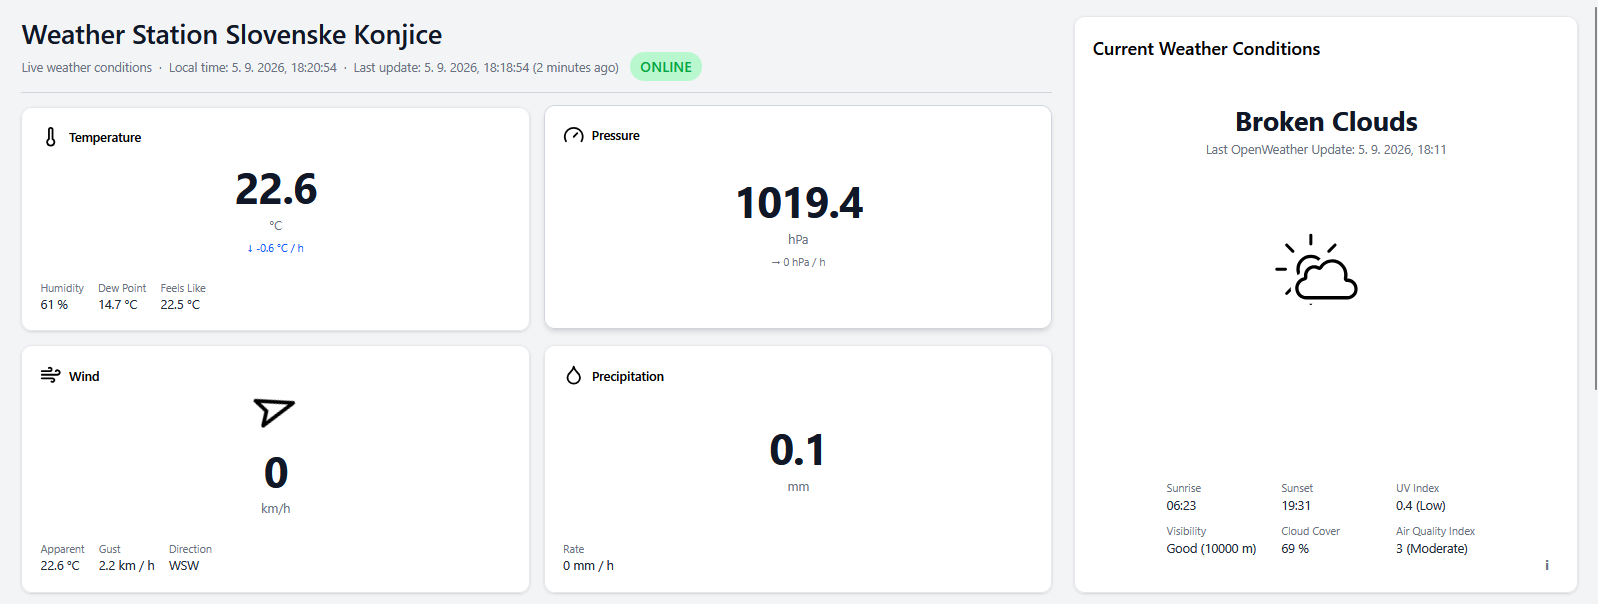
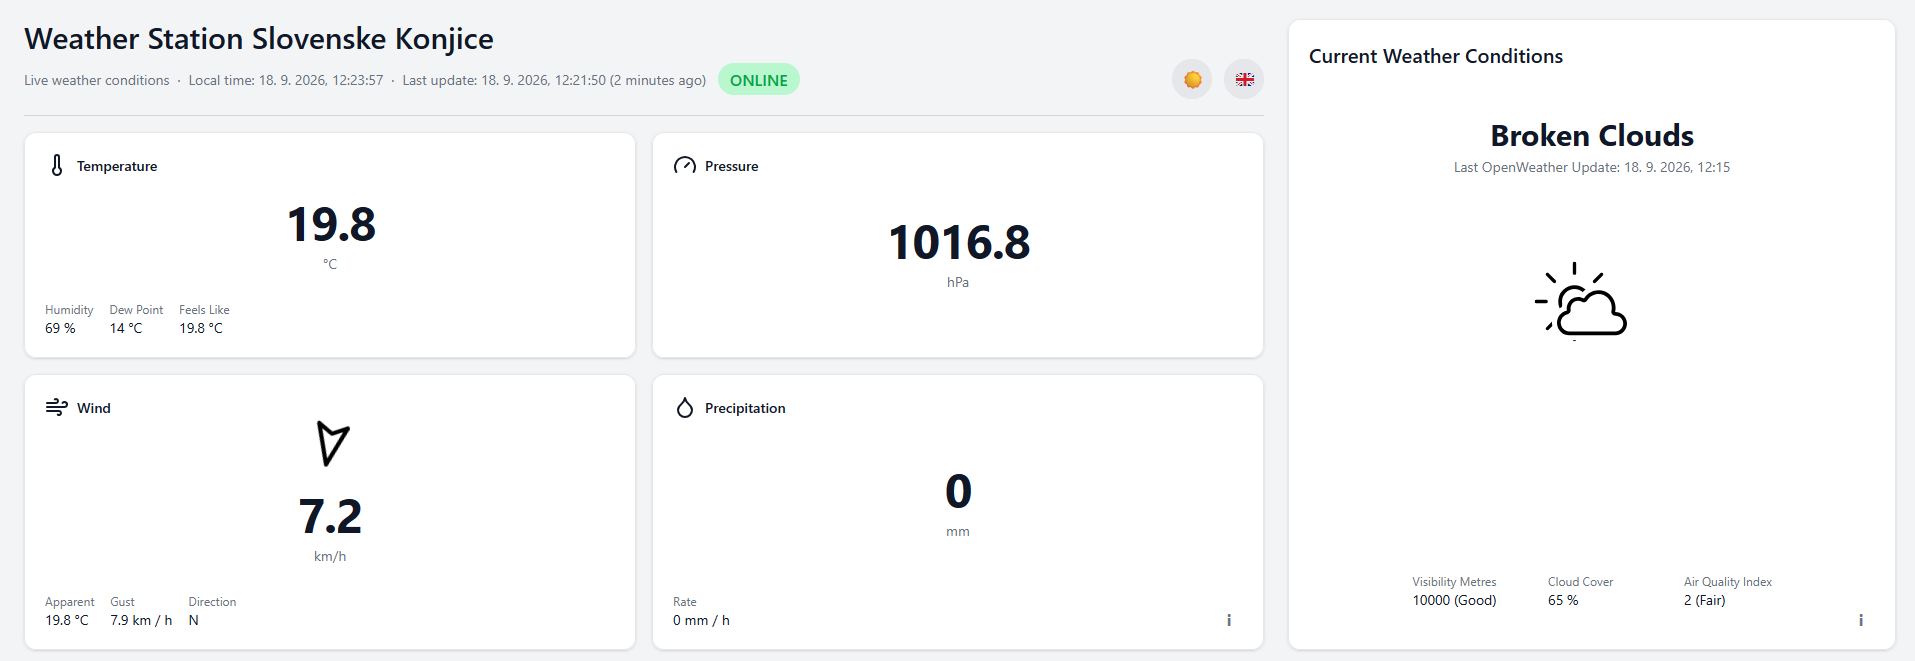
docs: update README

diff --git a/README.md b/README.md
@@ -20,15 +20,28 @@ A short-term weather forecast is generated using a modified Zambretti algorithm.
 
 An arrow indicates the expected trend of the weather: pointing down when conditions are expected to worsen (e.g. rain is approaching) and pointing up when conditions are expected to improve or stabilize.
 
+### Weather Alerts
+
+The Weather Alerts card shows active weather warnings and alerts for weather station's region, including their severity, category, validity period, and a detailed description (you can show/hide it with mouse click). It also provides information about upcoming alerts when available. Weather alerts are collected from [ARSO](https://meteo.arso.gov.si/met/sl/).
+
 ### Precipitation Radar
 
 The card includes an embedded Windy iframe displaying the precipitation radar, allowing users to view current precipitation conditions at weather station location and surrounding area.
 
+### Satellite
+
+The card includes an embedded Windy iframe displaying the live satellite view of Europe, allowing users to view current cloudiness across majority of Europe.
+
+### Sun Information
+
+The Sun card presents sunrise, sunset and solar noon time as the primary parameters. Secondary information includes day length, maximum solar altitude, dawn, dusk, astronomical twilight times, nautical twilight times, as well as the current UV index and the maximum UV index for today and tomorrow. Information about sun is collected from [sunrisesunet.io](https://sunrisesunset.io/). Information about UV is collected from [UV Index API](https://uvindexapi.com/).
+
 ### Moon Information
 
-The Moon card presents the moon phase, moon icon, illumination, and distance as the primary parameters. Secondary information includes moonrise and moonset times, dates of upcoming moon phases, as well as the dates of upcoming special lunar events and moon eclipses.
+The Moon card presents the moon phase, moon icon, illumination, and distance as the primary parameters. Secondary information includes moonrise and moonset times, dates of upcoming moon phases, as well as the dates of upcoming special lunar events and moon eclipses. Information on this card is collected from [FreeAstroAPI](https://www.freeastroapi.com/moon).
 
-![precipitation radar, short term forecast and moon information cards](screenshots/middle_section.png)
+![Precipitation radar, satellite and weather alerts cards](screenshots/middle1.png)
+![Sun, moon and short term Zambretti forecast cards](screenshots/middle2.png)
 
 ### Statistics & Charts
 
@@ -40,9 +53,14 @@ The statistics card displays the **minimum**, **maximum**, and **average** value
 
 Wind direction has a dedicated visualization that represents directions as degrees on a circular chart. Since this can be difficult to interpret at a glance, a wind rose is also provided to show the dominant wind directions more clearly.
 
+
 ![history section of webapp](screenshots/history_section.png)
 
 ![Wind direction chart and wind rose](screenshots/wind_direction_chart_rose_chart.png)
+
+### Theme And Language Options
+
+The status bar includes quick access to language and theme settings, allowing users to switch between English and Slovenian translations and toggle between light and dark theme with the click of a button.
 
 ## Tech Stack
 
